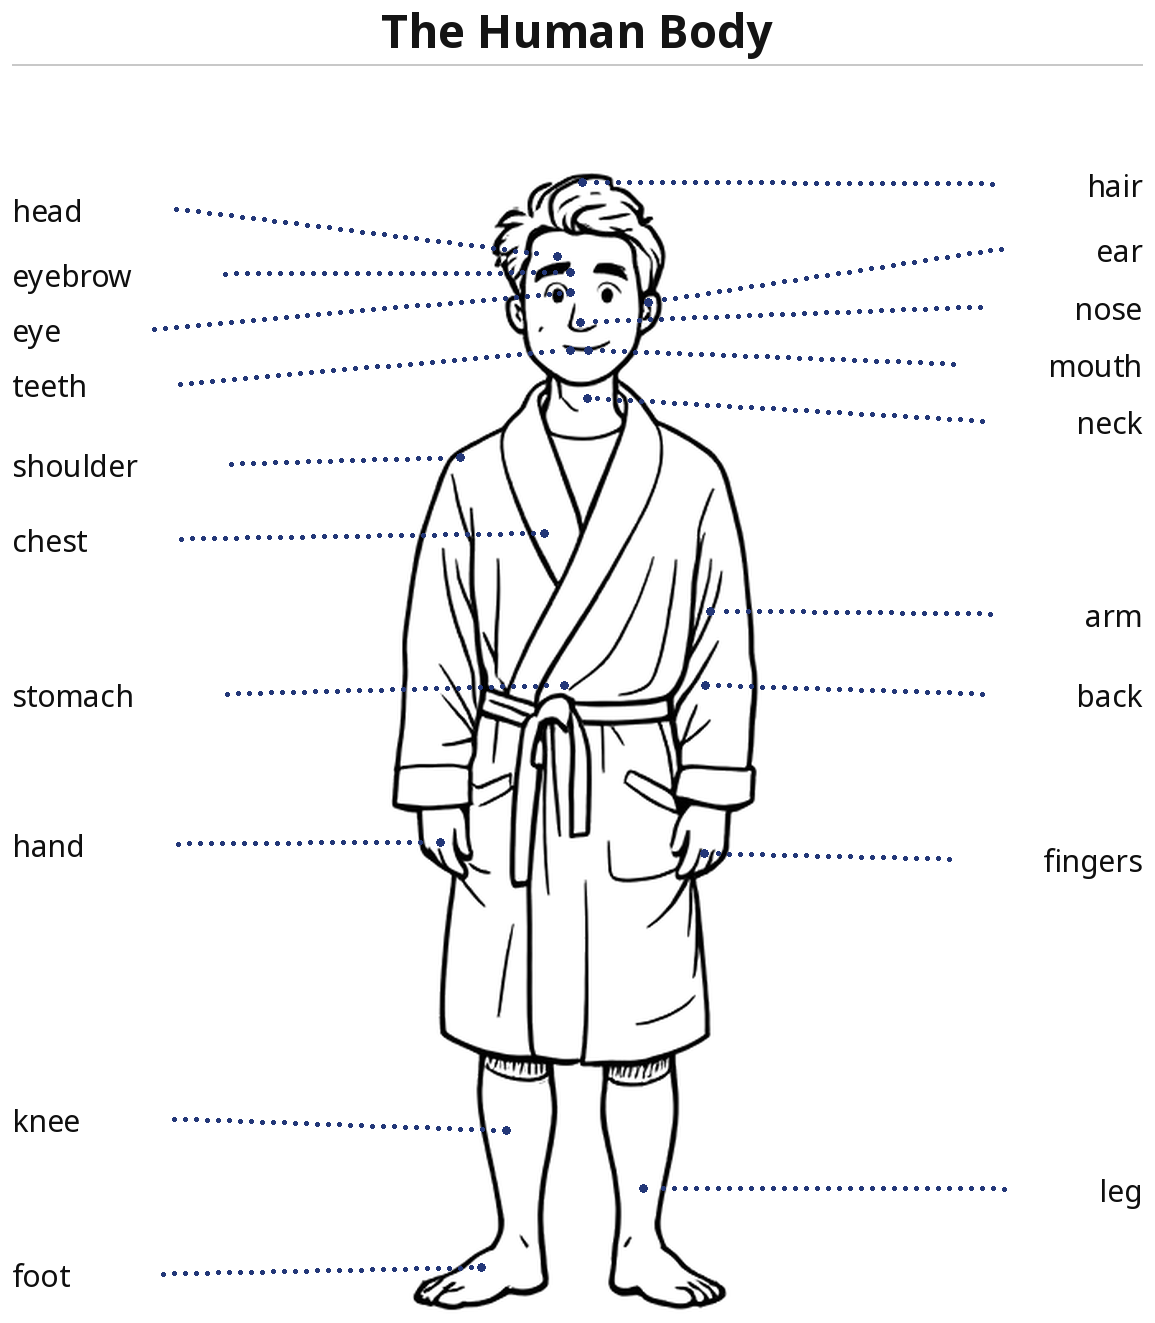
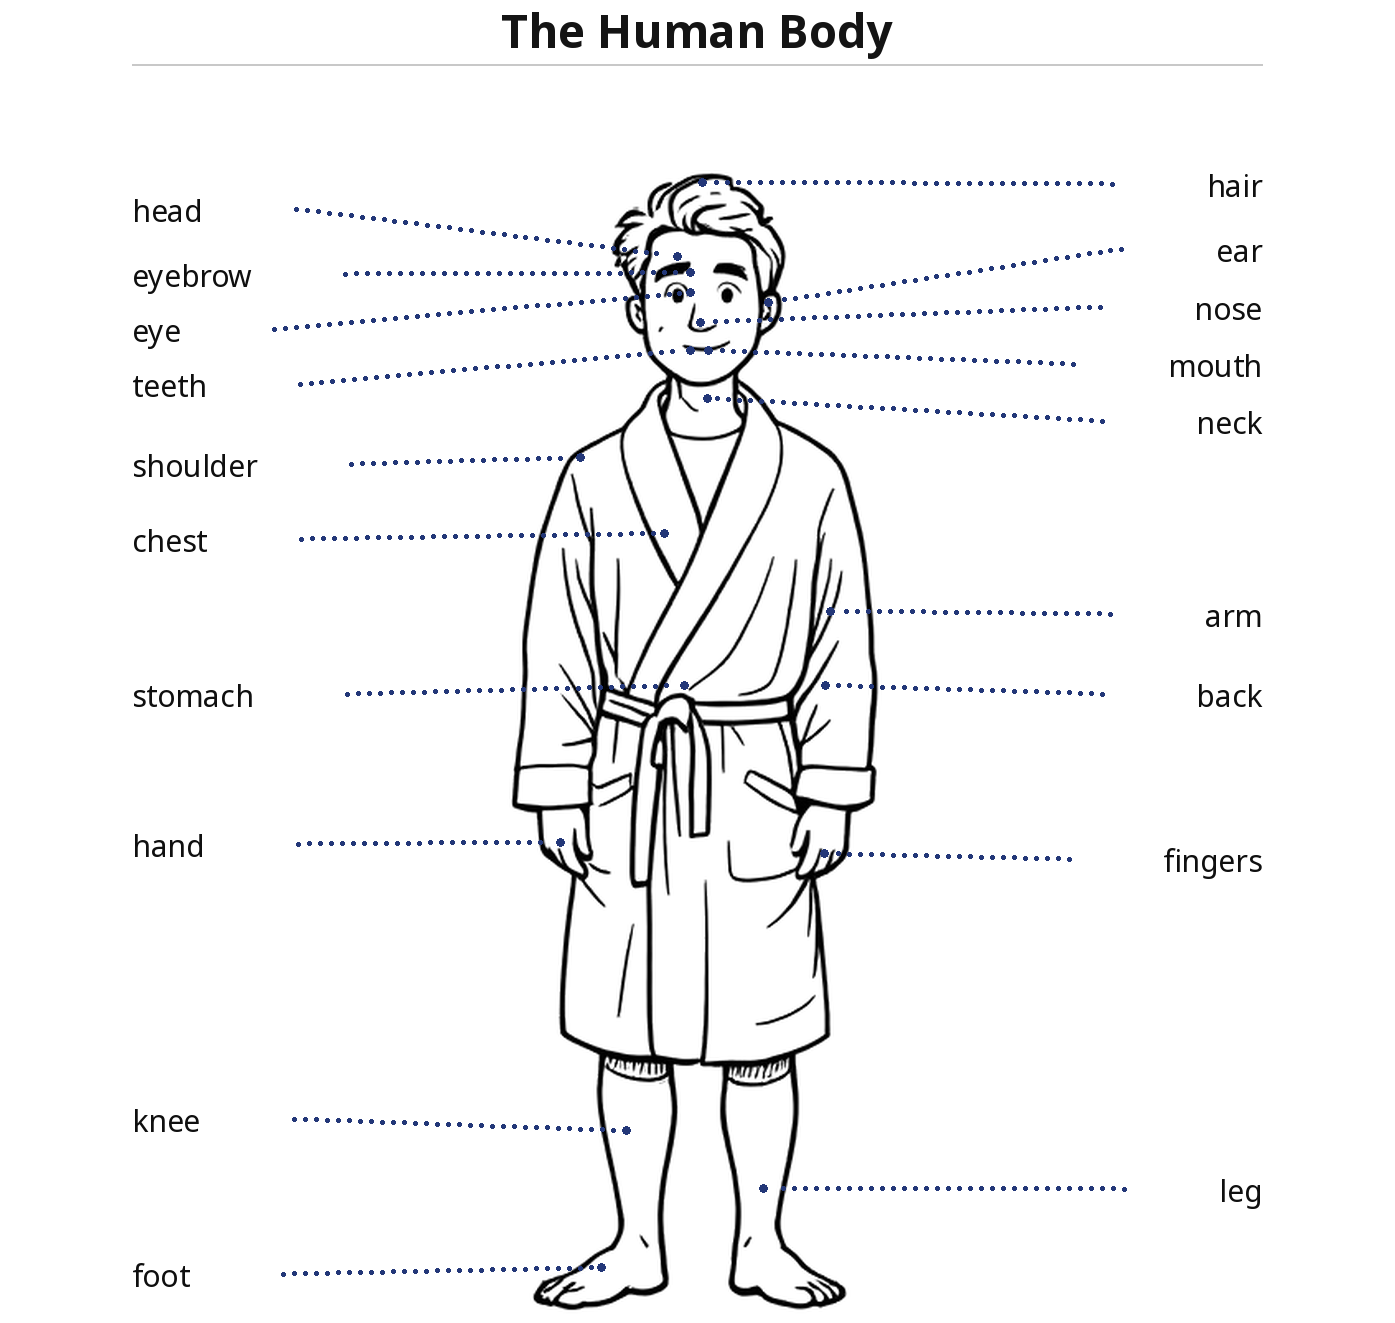
body.html: put the Thai words on the English plate
The English worksheet carried no Thai at all. Each label now shows its Thai
word as live HTML text, in the page's own font stack -- the same treatment as
corps.html.

- The scan was widened by 120px each side so the Thai sits in the outer
  margin, mirrored: "หัว head [speaker]" on the left, "[speaker] hair ผม"
  on the right.
- Each word is anchored 16px from its English label, on the label's baseline.
- Sizes in cqw, computed so the Thai renders the same physical size as on the
  French plate; the speaker hotspots were repositioned for the wider canvas
  and the plate's max-width raised 680 -> 770px so the drawing keeps its size.

Claude-Session: https://claude.ai/code/session_01L78Kidu29Q5mFkGdX3ntgw

diff --git a/kie/body.html b/kie/body.html
@@ -267,7 +267,7 @@
    printed answer box used to occupy (percentages, so it stays aligned at any
    width). Sizes are percentages of the plate too — 5.8% wide and 2.95% tall is
    the footprint of the old box in the scan. */
-.th-plate{position:relative; display:inline-block; width:100%; max-width:680px; line-height:0}
+.th-plate{position:relative; display:inline-block; width:100%; max-width:770px; line-height:0}
 .th-plate img{display:block; width:100%; height:auto}
 .th-hot{
   position:absolute; width:5.8%; height:2.95%; transform:translate(-50%,-50%);
@@ -287,13 +287,23 @@
   from{transform:translate(-50%,-50%) scale(1)}
   to{transform:translate(-50%,-50%) scale(1.18)}
 }
+/* 22 Aug 2026 — the English plate carried no Thai at all, so the Thai word is
+   drawn here as real text, in the outer margin of each label (the scan was
+   widened by 120px each side to make room). Same treatment as corps.html:
+   page font stack, so it matches the Thai in the vocabulary tables below;
+   sizes in cqw = percent of the plate width, so they scale with the drawing;
+   each word is anchored to the English label it belongs to, on its baseline. */
+.th-plate{container-type:inline-size}
+.th-thai{position:absolute; transform:translateY(-0.80em); white-space:nowrap;
+  font-size:2.24cqw; font-weight:600; line-height:1; color:#1a1a1a;
+  pointer-events:none; user-select:none}
 .th-readout{font-family:'Source Sans 3',sans-serif; font-size:.92rem; line-height:1.5;
   color:#2c3e50; margin-top:10px; min-height:1.5em}
 .th-readout .w{font-size:1.15rem; font-weight:600; color:#1a7a6e}
 .th-readout .p{font-style:italic; color:#555; margin-left:6px}
 .th-readout .t{color:#2a5fa5; font-weight:600; margin-left:6px}
 .th-readout .hint{font-size:.78rem; font-style:italic; opacity:.6; letter-spacing:.04em}
-.th-fig{margin:30px auto 6px; padding:0 40px; max-width:820px; text-align:center}
+.th-fig{margin:30px auto 6px; padding:0 40px; max-width:890px; text-align:center}
 @media (max-width:600px){.th-fig{margin:22px auto 4px; padding:0 14px}
   .th-hot{width:7%; height:3.4%}}
 @media print{.th-hot{display:none}}
@@ -301,44 +311,63 @@
 <figure class="th-fig">
   <div class="th-plate">
     <img src="pics/body.png" alt="Plate of the parts of the body in Thai, each label has a listen button" loading="lazy">
-  <button type="button" class="th-hot" style="left:89.96%;top:13.91%"
+  <button type="button" class="th-hot" style="left:83.09%;top:13.91%"
     data-say="ผม" data-ph="(Phôme) pʰôːm" data-tr="hair" title="ผม · (Phôme) pʰôːm — hair" aria-label="Listen: ผม, hair"></button>
-  <button type="button" class="th-hot" style="left:11.17%;top:15.80%"
+  <button type="button" class="th-hot" style="left:17.85%;top:15.80%"
     data-say="หัว" data-ph="(Hua) hǔa" data-tr="head" title="หัว · (Hua) hǔa — head" aria-label="Listen: หัว, head"></button>
-  <button type="button" class="th-hot" style="left:90.74%;top:18.82%"
+  <button type="button" class="th-hot" style="left:83.73%;top:18.82%"
     data-say="หู" data-ph="(Hou) hǔː" data-tr="ear" title="หู · (Hou) hǔː — ear" aria-label="Listen: หู, ear"></button>
-  <button type="button" class="th-hot" style="left:15.41%;top:20.71%"
+  <button type="button" class="th-hot" style="left:21.36%;top:20.71%"
     data-say="คิ้ว" data-ph="(khíw) kʰíw" data-tr="eyebrow" title="คิ้ว · (khíw) kʰíw — eyebrow" aria-label="Listen: คิ้ว, eyebrow"></button>
-  <button type="button" class="th-hot" style="left:88.92%;top:23.20%"
+  <button type="button" class="th-hot" style="left:82.22%;top:23.20%"
     data-say="จมูก" data-ph="(Ja-mouk) tɕa-mûk" data-tr="nose" title="จมูก · (Ja-mouk) tɕa-mûk — nose" aria-label="Listen: จมูก, nose"></button>
-  <button type="button" class="th-hot" style="left:9.26%;top:24.87%"
+  <button type="button" class="th-hot" style="left:16.27%;top:24.87%"
     data-say="ตา" data-ph="(Taa) taː" data-tr="eye" title="ตา · (Taa) taː — eye" aria-label="Listen: ตา, eye"></button>
-  <button type="button" class="th-hot" style="left:86.58%;top:27.51%"
+  <button type="button" class="th-hot" style="left:80.29%;top:27.51%"
     data-say="ปาก" data-ph="(Paak) pàːk" data-tr="mouth" title="ปาก · (Paak) pàːk — mouth" aria-label="Listen: ปาก, mouth"></button>
-  <button type="button" class="th-hot" style="left:11.52%;top:29.02%"
+  <button type="button" class="th-hot" style="left:18.14%;top:29.02%"
     data-say="ฟัน" data-ph="(Fun) fan" data-tr="teeth" title="ฟัน · (Fun) fan — teeth" aria-label="Listen: ฟัน, teeth"></button>
-  <button type="button" class="th-hot" style="left:89.09%;top:31.82%"
+  <button type="button" class="th-hot" style="left:82.36%;top:31.82%"
     data-say="คอ" data-ph="(Khor) kʰɔː" data-tr="neck" title="คอ · (Khor) kʰɔː — neck" aria-label="Listen: คอ, neck"></button>
-  <button type="button" class="th-hot" style="left:15.93%;top:35.07%"
+  <button type="button" class="th-hot" style="left:21.79%;top:35.07%"
     data-say="ไหล่" data-ph="(laï) lǎi" data-tr="shoulder" title="ไหล่ · (laï) lǎi — shoulder" aria-label="Listen: ไหล่, shoulder"></button>
-  <button type="button" class="th-hot" style="left:11.60%;top:40.74%"
+  <button type="button" class="th-hot" style="left:18.21%;top:40.74%"
     data-say="อก" data-ph="(ok) ʔòk" data-tr="chest" title="อก · (ok) ʔòk — chest" aria-label="Listen: อก, chest"></button>
-  <button type="button" class="th-hot" style="left:89.78%;top:46.41%"
+  <button type="button" class="th-hot" style="left:82.94%;top:46.41%"
     data-say="แขน" data-ph="(Khène) kʰɛ̌ːn" data-tr="arm" title="แขน · (Khène) kʰɛ̌ːn — arm" aria-label="Listen: แขน, arm"></button>
-  <button type="button" class="th-hot" style="left:15.58%;top:52.46%"
+  <button type="button" class="th-hot" style="left:21.50%;top:52.46%"
     data-say="ท้อง" data-ph="(Thǒng) tʰɔ̌ŋ" data-tr="stomach" title="ท้อง · (Thǒng) tʰɔ̌ŋ — stomach" aria-label="Listen: ท้อง, stomach"></button>
-  <button type="button" class="th-hot" style="left:89.09%;top:52.46%"
+  <button type="button" class="th-hot" style="left:82.36%;top:52.46%"
     data-say="หลัง" data-ph="(lǎng) lǎŋ" data-tr="back" title="หลัง · (lǎng) lǎŋ — back" aria-label="Listen: หลัง, back"></button>
-  <button type="button" class="th-hot" style="left:11.34%;top:63.79%"
+  <button type="button" class="th-hot" style="left:17.99%;top:63.79%"
     data-say="มือ" data-ph="(mue) mɯː" data-tr="hand" title="มือ · (mue) mɯː — hand" aria-label="Listen: มือ, hand"></button>
-  <button type="button" class="th-hot" style="left:86.23%;top:64.93%"
+  <button type="button" class="th-hot" style="left:80.00%;top:64.93%"
     data-say="นิ้วมือ" data-ph="(Niw mue) níw mɯː" data-tr="fingers" title="นิ้วมือ · (Niw mue) níw mɯː — fingers" aria-label="Listen: นิ้วมือ, fingers"></button>
-  <button type="button" class="th-hot" style="left:11.00%;top:84.58%"
+  <button type="button" class="th-hot" style="left:17.71%;top:84.58%"
     data-say="เข่า" data-ph="(khào) kʰàw" data-tr="knee" title="เข่า · (khào) kʰàw — knee" aria-label="Listen: เข่า, knee"></button>
-  <button type="button" class="th-hot" style="left:91.00%;top:89.87%"
+  <button type="button" class="th-hot" style="left:83.95%;top:89.87%"
     data-say="ขา" data-ph="(kha) kʰǎː" data-tr="leg" title="ขา · (kha) kʰǎː — leg" aria-label="Listen: ขา, leg"></button>
-  <button type="button" class="th-hot" style="left:10.04%;top:96.30%"
+  <button type="button" class="th-hot" style="left:16.91%;top:96.30%"
     data-say="เท้า" data-ph="(Thǎo) tʰâːw" data-tr="foot" title="เท้า · (Thǎo) tʰâːw — foot" aria-label="Listen: เท้า, foot"></button>
+    <span class="th-thai" style="left:91.61%;top:14.81%">ผม</span>
+    <span class="th-thai" style="right:91.47%;top:16.70%">หัว</span>
+    <span class="th-thai" style="left:91.61%;top:19.73%">หู</span>
+    <span class="th-thai" style="right:91.54%;top:21.62%">คิ้ว</span>
+    <span class="th-thai" style="left:91.47%;top:24.11%">จมูก</span>
+    <span class="th-thai" style="right:91.54%;top:25.77%">ตา</span>
+    <span class="th-thai" style="left:91.40%;top:28.42%">ปาก</span>
+    <span class="th-thai" style="right:91.61%;top:29.93%">ฟัน</span>
+    <span class="th-thai" style="left:91.54%;top:32.73%">คอ</span>
+    <span class="th-thai" style="right:91.54%;top:35.98%">ไหล่</span>
+    <span class="th-thai" style="right:91.54%;top:41.65%">อก</span>
+    <span class="th-thai" style="left:91.40%;top:47.32%">แขน</span>
+    <span class="th-thai" style="right:91.54%;top:53.36%">ท้อง</span>
+    <span class="th-thai" style="left:91.54%;top:53.36%">หลัง</span>
+    <span class="th-thai" style="right:91.47%;top:64.70%">มือ</span>
+    <span class="th-thai" style="left:91.54%;top:65.84%">นิ้วมือ</span>
+    <span class="th-thai" style="right:91.47%;top:85.49%">เข่า</span>
+    <span class="th-thai" style="left:91.40%;top:90.78%">ขา</span>
+    <span class="th-thai" style="right:91.61%;top:97.20%">เท้า</span>
   </div>
   <script>
 (function(){
